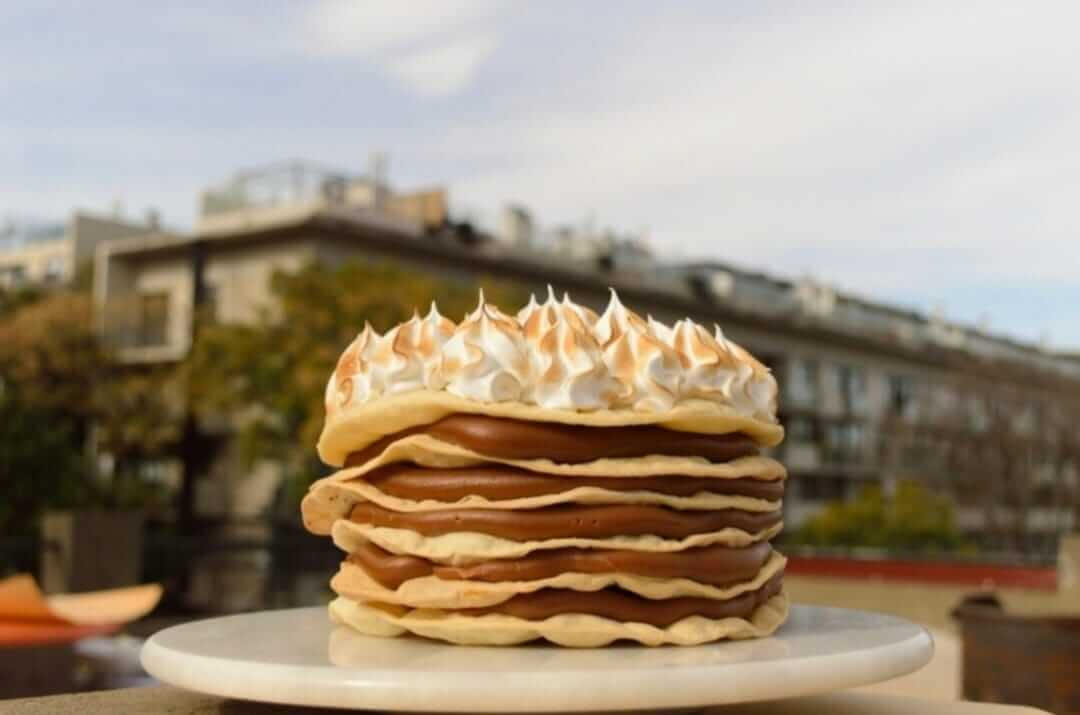
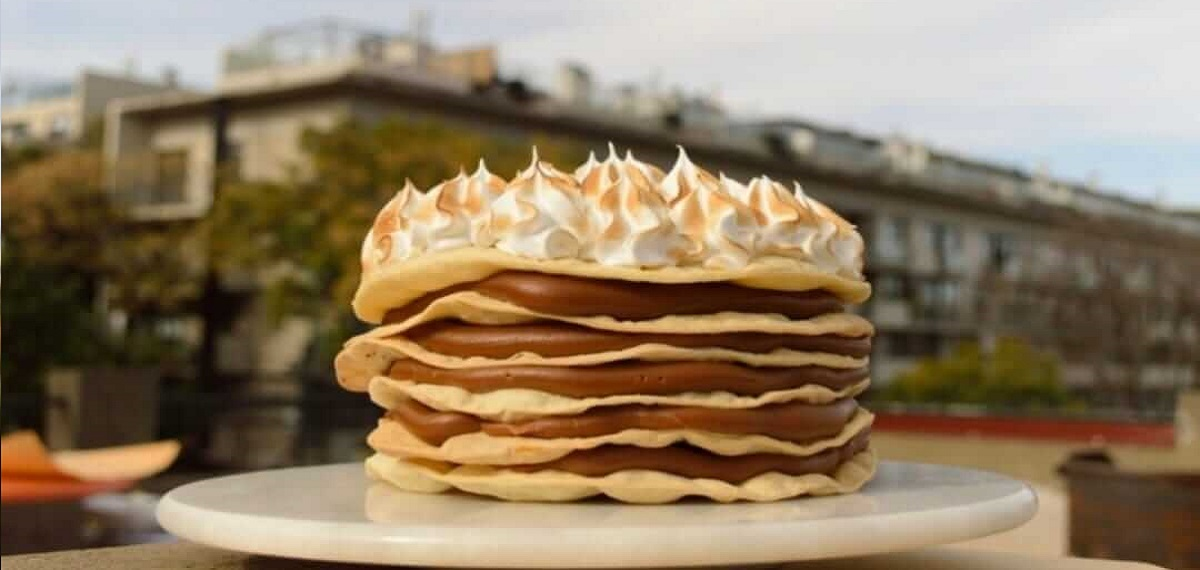
adding style

diff --git a/index.html b/index.html
@@ -67,19 +67,19 @@
         </div>
         <!-- Carousel -->
         <div id="carouselExampleFade" class="carousel slide carousel-fade" data-bs-ride="carousel">
-            <div class="carousel-caption">
-                <h1 class="col-8">Hola! Somos Craquelén. Creamos la pastelería que nos gusta comer.</h1>
-            </div>
             <div class="carousel-inner">
                 <div class="carousel-item active">
-                    <img src="https://i.ibb.co/dJz7pyj/Whats-App-Image-2021-09-21-at-10-55-10-1.jpg" class="d-block w-100" alt="...">
+                    <img src="https://i.ibb.co/ZgpvWDg/carousel2.jpg" class="d-block w-100" alt="...">
                 </div>
                 <div class="carousel-item">
-                    <img src="https://i.ibb.co/PtqK0Wf/Whats-App-Image-2021-09-21-at-10-55-09.jpg" class="d-block w-100" alt="...">
+                    <img src="https://i.ibb.co/NgRdYcg/carousel3.jpg" class="d-block w-100" alt="...">
                 </div>
                 <div class="carousel-item">
-                    <img src="https://i.ibb.co/vxrg10N/Whats-App-Image-2021-09-21-at-10-55-08-3.jpg" class="d-block w-100" alt="...">
+                    <img src="https://i.ibb.co/qdT7Sds/carousel1.jpg" class="d-block w-100" alt="...">
                 </div>
+            </div>
+            <div class="carousel-caption col-8">
+                <h1>Hola! Somos Craquelén. Creamos la pastelería que nos gusta comer.</h1>
             </div>
             <button class="carousel-control-prev" type="button" data-bs-target="#carouselExampleFade" data-bs-slide="prev">
               <span class="carousel-control-prev-icon" aria-hidden="true"></span>
@@ -91,17 +91,21 @@
             </button>
           </div>
         </div>
-        <div class="row">
-            <h2 id="nosotras">Conocenos!</h2>
-            <p>Lorem ipsum dolor sit amet consectetur adipisicing elit. Alias sunt vitae optio, aspernatur architecto doloribus quae nam, expedita eum voluptatum praesentium veniam! Nesciunt excepturi tenetur laborum dolorum eum, repellendus obcaecati.</p>
+    </main>
+    <section>
+        <div class="row justify-content-evenly">
+            <h2 id="nosotras" class= "col-2">Conocenos!</h2>
+            <p class="col-6">Lorem ipsum dolor sit amet consectetur adipisicing elit. Alias sunt vitae optio, aspernatur architecto doloribus quae nam, expedita eum voluptatum praesentium veniam! Nesciunt excepturi tenetur laborum dolorum eum, repellendus obcaecati.</p>
         </div>
-        </main>
-    <section>
-        <h2 id="mayoristas">Sos mayorista?</h2>
-        <p>Lorem ipsum dolor sit amet consectetur adipisicing elit. Molestias minus dolor amet, labore quibusdam dolores ipsum qui itaque libero a! Et vel voluptatibus quisquam quas repudiandae adipisci facere impedit incidunt.</p>
+        <div class="row">
+            <p class="col-6 justify-content-evenly">Lorem ipsum dolor sit amet consectetur adipisicing elit. Molestias minus dolor amet, labore quibusdam dolores ipsum qui itaque libero a! Et vel voluptatibus quisquam quas repudiandae adipisci facere impedit incidunt.</p>
+            <h2 id="mayoristas" class="col-2">Sos mayorista?</h2>
+        </div>
     </section>
-    <section>
-        <h2 id="contacto">Escribinos!</h2>
+    <section class="row">
+        <div class="col-6 justify-content-center">
+            <h2 id="contacto">Escribinos!</h2>
+        </div>
     </section>
     <footer>
         <h3>Desarrollado por Victoria Batista</h3>

diff --git a/scss/_index.scss b/scss/_index.scss
@@ -51,23 +51,48 @@ nav{
         }
     }
 }
-.carousel {
-    position: relative;
-}
 /* Fin Navbar */
+/* Carousel index */
 main {
     width: 100%;
-    h1 {
+    .carousel {
+        position: relative;
+        img{
+            opacity: 0.5;
+        }
+        .carousel-caption {
+        z-index: 1;
         position: absolute;
-        font-family: $font-title;
-        color: $color-4;
-        text-align: right;
+        top: 40%;
+        left: 20%;
+            h1 {
+            font-family: $font-title;
+            color: $color-2;
+            text-align: center;
+            text-shadow: 2px 2px 3px $color-6;
+            font-size: 3em;
+            }
+        }
+    }
+}
+
+/* About us index */
+
+section {
+    margin-top: 2em;
+    .row {
         
+        h2 {
+            font-family: $font-subtitle;
+            font-size: 3em;
+            color: $color-4;
+            margin: 1em 1em 1em 1em;
 
-        text-shadow: 2px 2px 3px #A29B58;
-        font-size: 2.2em;
-        margin: 2em;
-        margin-top: 1em;
-
+        }
+        p {
+            font-family: $font-subtitle;
+            font-size: 1.5em;
+            margin: 1em;
+        }
     }
 }

diff --git a/css/style.css b/css/style.css
@@ -56,16 +56,44 @@ nav .logo-img img {
 }
 
 /* Fin Navbar */
+/* Carousel index */
 main {
   width: 100%;
 }
-main h1 {
+main .carousel {
+  position: relative;
+}
+main .carousel img {
+  opacity: 0.5;
+}
+main .carousel .carousel-caption {
+  z-index: 1;
+  position: absolute;
+  top: 40%;
+  left: 20%;
+}
+main .carousel .carousel-caption h1 {
   font-family: "Playfair Display", serif;
+  color: #f2f2f2;
+  text-align: center;
+  text-shadow: 2px 2px 3px #202527;
+  font-size: 3em;
+}
+
+/* About us index */
+section {
+  margin-top: 2em;
+}
+section .row h2 {
+  font-family: "Overpass", sans-serif;
+  font-size: 3em;
   color: #605c34;
-  text-shadow: 2px 2px 3px #A29B58;
-  font-size: 2.2em;
-  margin: 2em;
-  margin-top: 1em;
+  margin: 1em 1em 1em 1em;
+}
+section .row p {
+  font-family: "Overpass", sans-serif;
+  font-size: 1.5em;
+  margin: 1em;
 }
 
 .shop-container {
